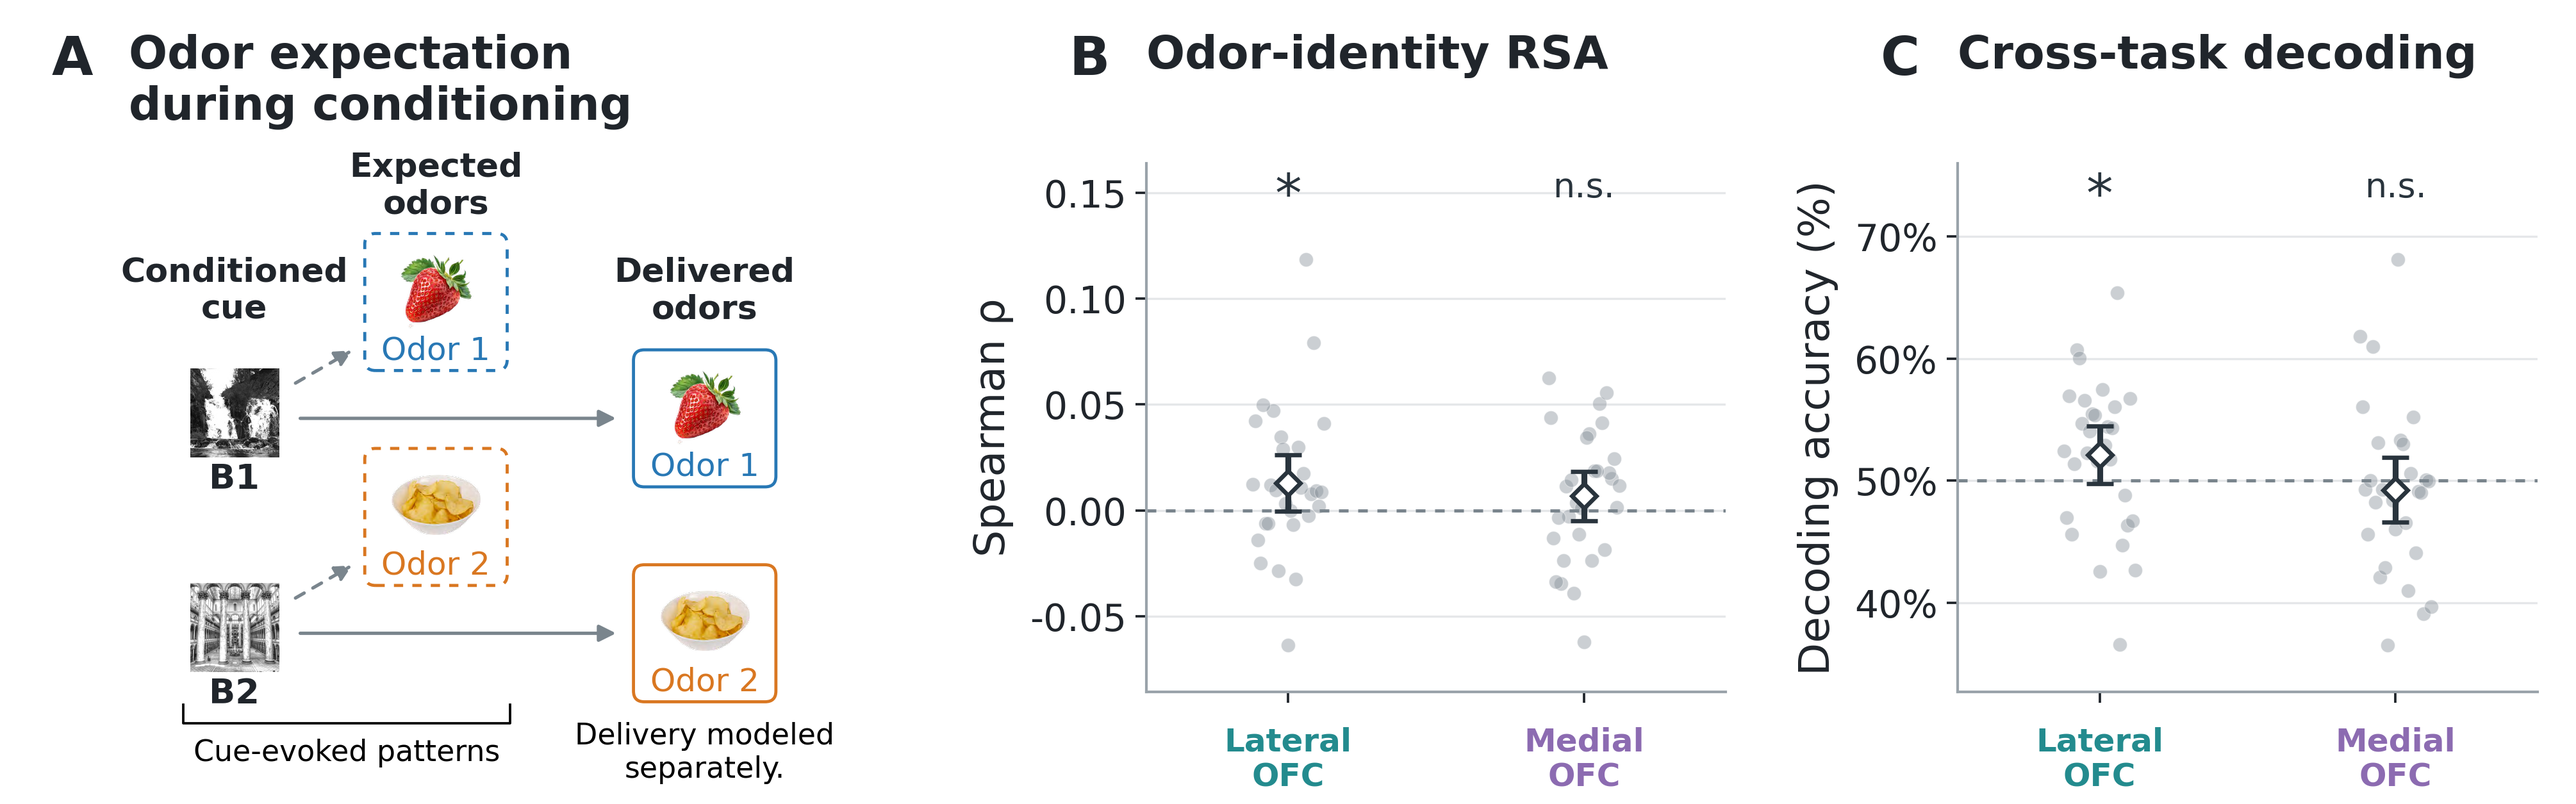
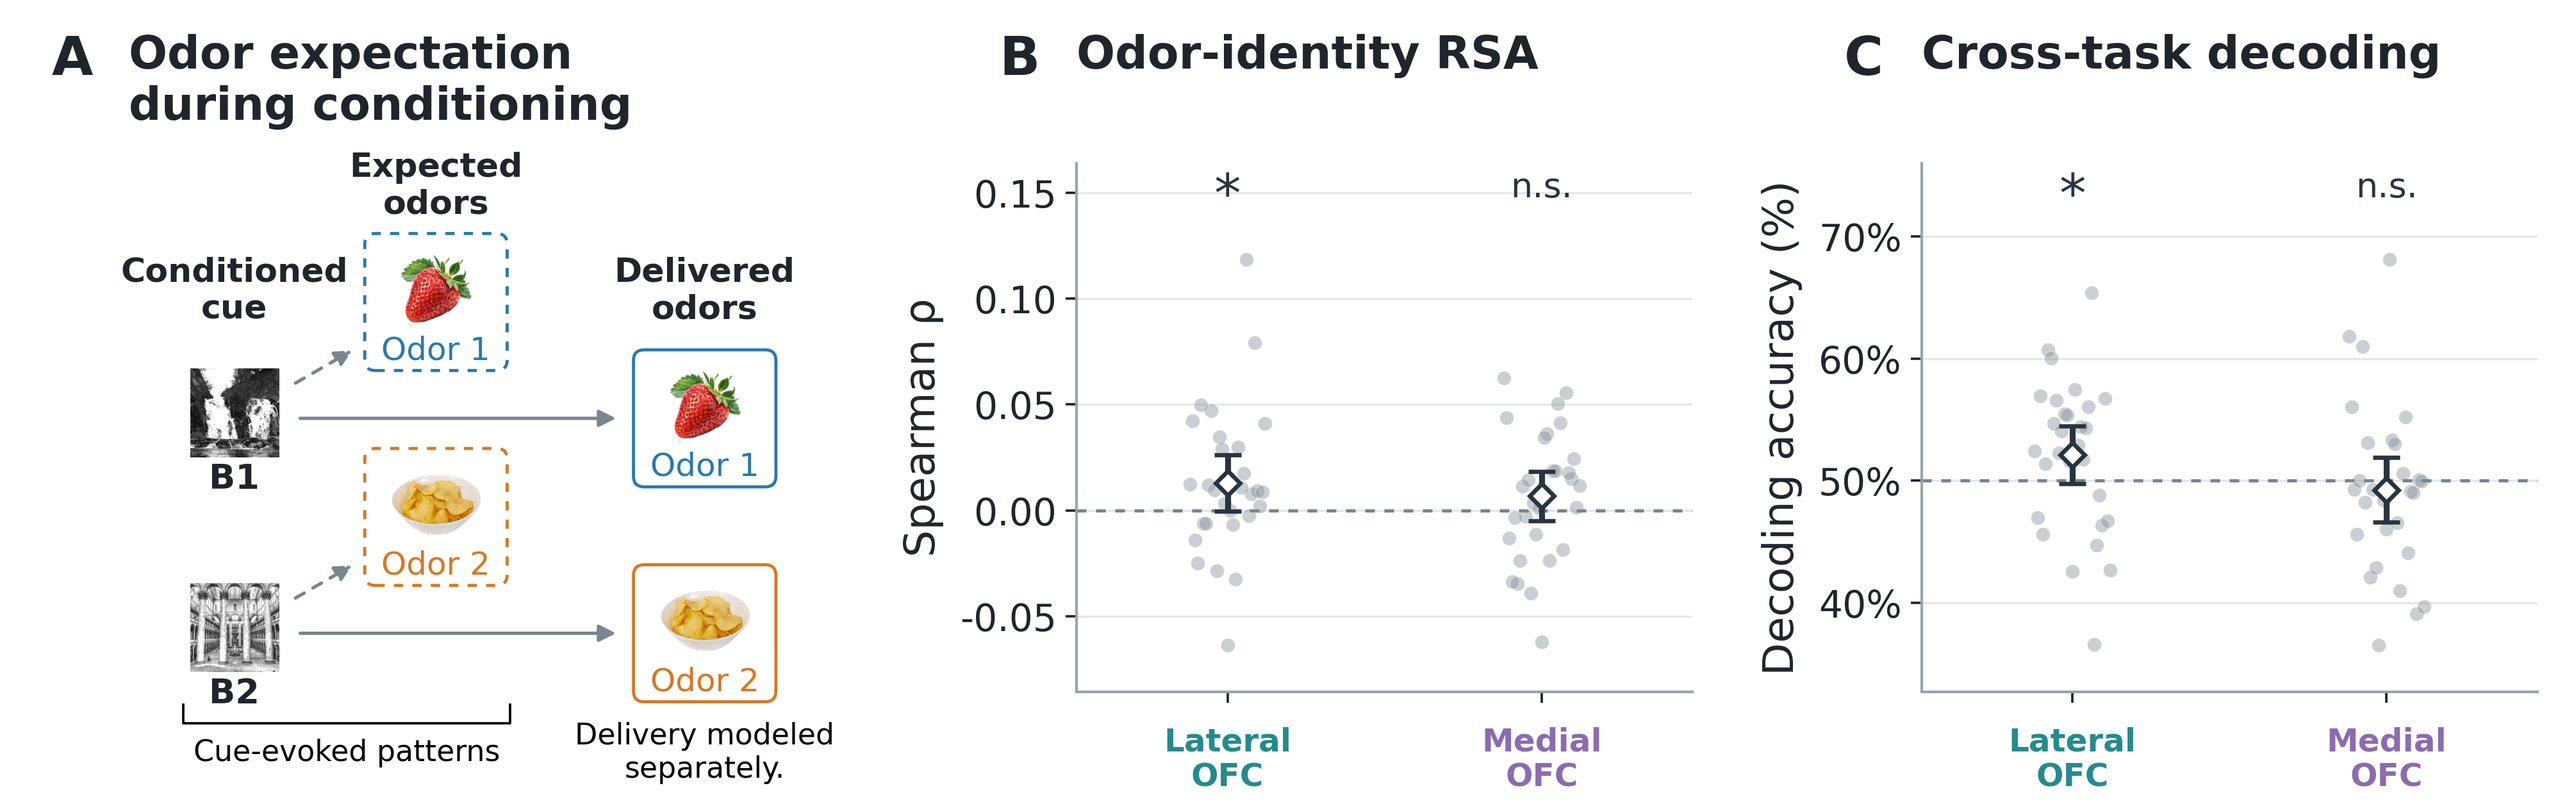
Refine conditioning identity text and figure layout
Clarify the early-run conditioning exclusion, match localizer wording to the probe results, and connect the findings to the model's allocation principle. Widen and align Figure X plots and refresh the figure exports and review PDF.

diff --git a/writing/conditioning_identity_results/conditioning_identity.tex b/writing/conditioning_identity_results/conditioning_identity.tex
@@ -26,9 +26,9 @@
 
 The preferential representation of preconditioned outcomes in lateral OFC may reflect the prioritization of inferred outcome identities when both cue classes share limited representational resources. We therefore asked whether directly conditioned cues would evoke odor-related representations during conditioning, when only conditioned cues were presented and participants explicitly reported which odor would follow each cue (Fig.~\ref{fig-conditioning-identity}A). Using the same independently defined lateral and medial OFC regions, we tested whether cues predicting the same food odor evoked more similar neural patterns than cues predicting different odors. RSA used single-trial activity estimates spanning the combined cue and prediction period (0--5\,s), pooled correct trials across all available conditioning runs ($n = 29$), and excluded clean-air trials. Pattern comparisons were restricted to presentations from different runs. Neural patterns in lateral OFC showed a small positive correspondence with the odor-identity model (mean Spearman $\rho = 0.0131$, $t(28) = 2.01$, $p = 0.027$), whereas the corresponding effect was not significant in medial OFC (mean Spearman $\rho = 0.0068$, $t(28) = 1.20$, $p = 0.120$; Fig.~\ref{fig-conditioning-identity}B).
 
-To test whether conditioning cues also evoked patterns shared with experienced odors, we trained the same cross-task decoder on responses to the two food odors in the independent passive localizer and applied it to conditioning cue patterns from an early cue window (0--2\,s; EARLY) and the combined cue and prediction window (0--5\,s; EXT5s). In lateral OFC, decoding accuracy exceeded 50\% chance for EARLY (52.12\%, $t(28) = 1.83$, $p = 0.039$; Fig.~\ref{fig-conditioning-identity}C). Accuracy was also numerically above chance for EXT5s, although this effect did not reach significance (51.87\%, $t(28) = 1.45$, $p = 0.079$). Decoding was not significantly above chance in medial OFC for either window (EARLY, 49.25\%, $p = 0.715$; EXT5s, 50.05\%, $p = 0.484$).
+To test whether conditioning cues also evoked patterns shared with experienced odors, we trained the same cross-task decoder on responses to the two food odors presented during the independent localizer task and applied it to conditioning cue patterns from an early cue window (0--2\,s; EARLY) and the combined cue and prediction window (0--5\,s; EXT5s). In lateral OFC, decoding accuracy exceeded 50\% chance for EARLY (52.12\%, $t(28) = 1.83$, $p = 0.039$; Fig.~\ref{fig-conditioning-identity}C). Accuracy was also numerically above chance for EXT5s, although this effect did not reach significance (51.87\%, $t(28) = 1.45$, $p = 0.079$). Decoding was not significantly above chance in medial OFC for either window (EARLY, 49.25\%, $p = 0.715$; EXT5s, 50.05\%, $p = 0.484$).
 
-Together, these analyses provide suggestive evidence of odor-related information in lateral OFC during explicit prediction of directly associated outcomes, consistent with previous findings of identity-specific reward representations in this region.
+Together, these analyses provide suggestive evidence of odor-related information in lateral OFC during explicit prediction of directly associated outcomes, consistent with previous findings of identity-specific reward representations in this region. This pattern is also consistent with the model's proposal that lateral OFC allocates outcome-identity representations according to task demands: when only conditioned cues are presented, these representations can support explicit prediction of their associated odors.
 
 \renewcommand{\thefigure}{X}
 \begin{figure}[p]
@@ -48,6 +48,6 @@ Together, these analyses provide suggestive evidence of odor-related information
 
 We estimated single-trial responses during conditioning using the same preprocessing procedures and nuisance regressors as in the probe analyses. Each least-squares-separate model contained a target-cue regressor and a second regressor pooling all other cue presentations, spanning either the first 2\,s (EARLY) or the combined cue and prediction period (5\,s; EXT5s). EARLY models additionally included a pooled prediction regressor (2--5\,s after cue onset). Both models included delay (5--7\,s), odor delivery (7--9\,s), zero-duration button presses at the recorded response times, and fixation replacing delay and delivery on missed-response trials (4\,s). Delivery events for both food odors and clean air were pooled into one regressor and included on all responded trials, including incorrect predictions. All cue presentations were modeled; correct-trial filtering was applied subsequently.
 
-RSA and cross-task decoding used the same bilateral OFC regions as the probe analyses. Only correct food-odor trials with recorded responses and finite positive response times were retained, pooling all available conditioning runs. Two additional participants were excluded from the conditioning analyses: one had very few correct food-odor trials in run 2 (one for odor 1 and three for odor 2), and the other had virtually no usable OFC voxels after excluding voxels with nonfinite estimates across runs 1--3 (0/4,445 lateral and 4/5,500 medial OFC voxels retained). This left 29 participants; 28 contributed three runs and one contributed runs 1--2 because the third scan was interrupted. RSA used EXT5s estimates and the probe-analysis procedures, computing Spearman correlations between neural and expected odor-identity RDMs using only cross-run pairs; participant-level coefficients were assessed against zero. Cross-task decoding followed the probe-analysis procedure, training a classifier on passive odor-localizer patterns and applying it to both conditioning windows without further fitting. EARLY and EXT5s used matched trials and a common set of voxels finite across training and testing; voxel responses were z-scored separately within each task, window, and run. Decoding accuracy averaged recall across the two food odors and was assessed against 50\% chance. Both analyses used one-sided one-sample $t$-tests with uncorrected $p$ values.
+RSA and cross-task decoding used the same bilateral OFC regions as the probe analyses. Only correct food-odor trials with recorded responses and finite positive response times were retained, pooling all available conditioning runs. Two additional participants were excluded from the conditioning analyses. One showed poor conditioning performance across runs 1--2 (8 of 24 food-odor trials correct in run 1 and 4 of 24 in run 2), despite improved performance in run 3. The other had virtually no usable OFC voxels after excluding voxels with nonfinite estimates across runs 1--3 (0/4,445 lateral and 4/5,500 medial OFC voxels retained). This left 29 participants; 28 contributed three runs and one contributed runs 1--2 because the third scan was interrupted. RSA used EXT5s estimates and the probe-analysis procedures, computing Spearman correlations between neural and expected odor-identity RDMs using only cross-run pairs; participant-level coefficients were assessed against zero. Cross-task decoding followed the probe-analysis procedure, training a classifier on passive odor-localizer patterns and applying it to both conditioning windows without further fitting. EARLY and EXT5s used matched trials and a common set of voxels finite across training and testing; voxel responses were z-scored separately within each task, window, and run. Decoding accuracy averaged recall across the two food odors and was assessed against 50\% chance. Both analyses used one-sided one-sample $t$-tests with uncorrected $p$ values.
 
 \end{document}

diff --git a/fig/make_figx.py b/fig/make_figx.py
@@ -234,11 +234,12 @@ def main():
     fig = plt.figure(figsize=(13.4, 5.0))
     schematic = fig.add_axes([.015, .18, .345, .65])
     draw_conditioning_schematic(schematic, project)
-    axes = [fig.add_axes([.445, .28, .225, .55]), fig.add_axes([.76, .28, .225, .55])]
+    plot_lefts = (.418, .746)
+    axes = [fig.add_axes([left, .28, .239, .55]) for left in plot_lefts]
     # Reserve the same two-line heading area for all panels.
     for x, letter, title in [(.02, "A", "Odor expectation\nduring conditioning"),
-                             (.415, "B", "Odor-identity RSA"),
-                             (.73, "C", "Cross-task decoding")]:
+                             (plot_lefts[0] - .03, "B", "Odor-identity RSA"),
+                             (plot_lefts[1] - .03, "C", "Cross-task decoding")]:
         fig.text(x, .965, letter, fontsize=PANEL_SIZE, fontweight="bold", va="top")
         fig.text(x + .03, .965, title, fontsize=TITLE_SIZE, fontweight="bold",
                  va="top", linespacing=1.2)
